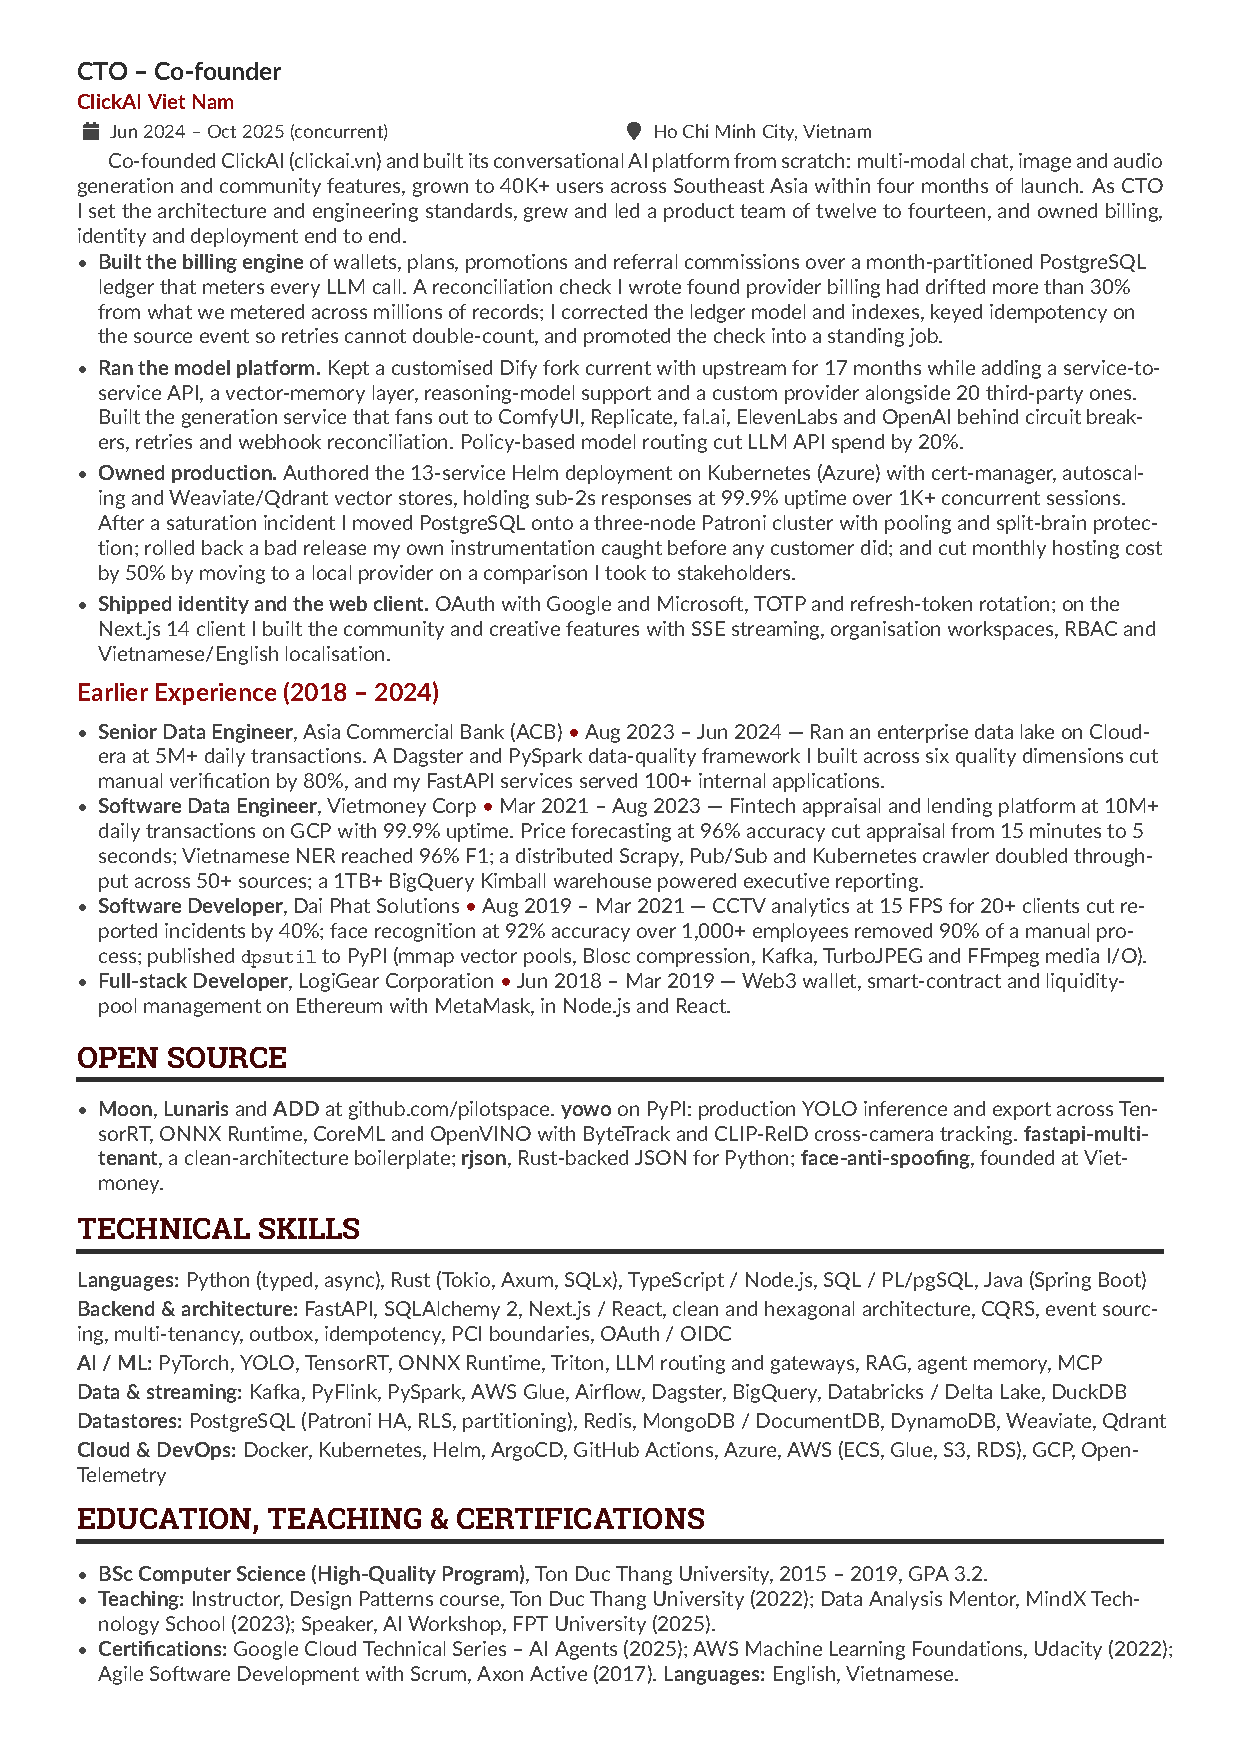
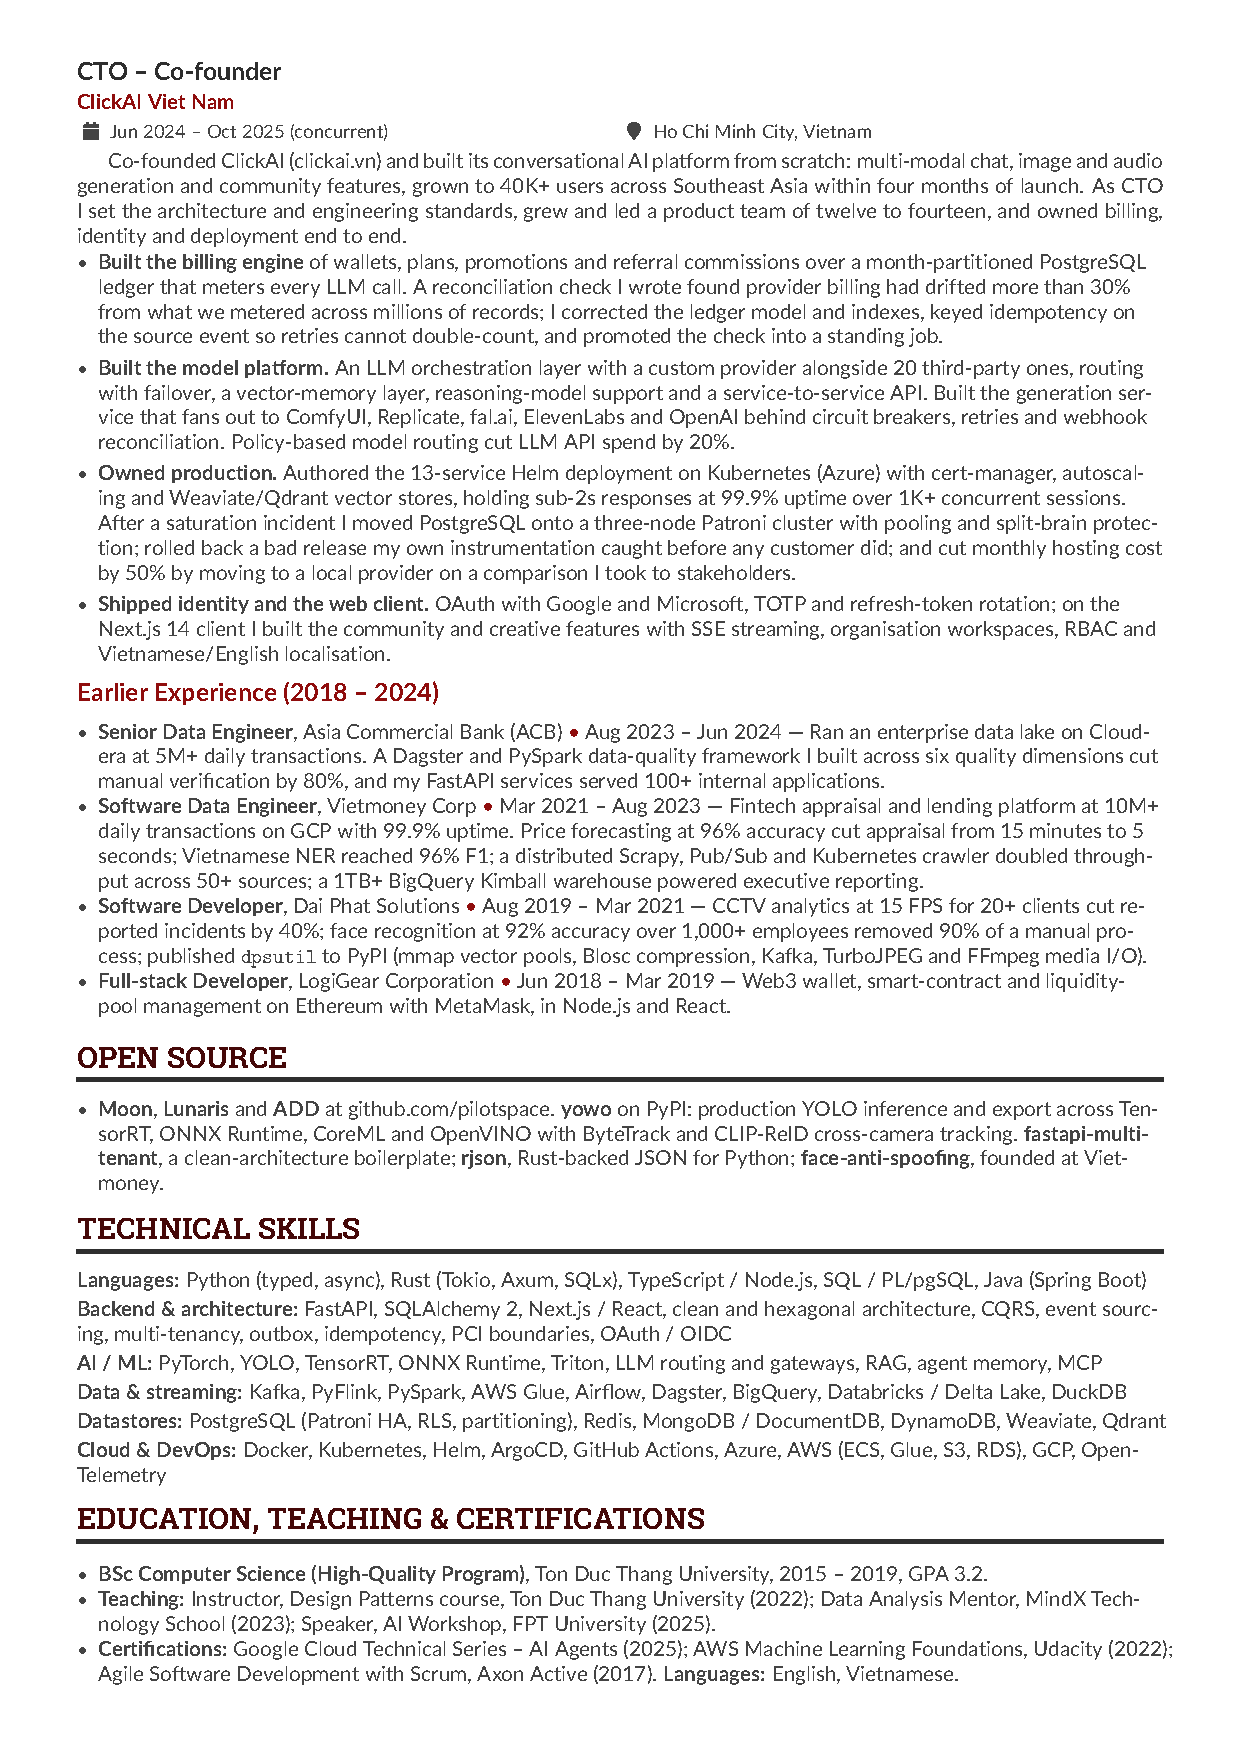
docs(cv): describe the ClickAI model platform without naming its base
Reworded the model-platform bullet to describe what was built: an LLM
orchestration layer with a custom provider alongside 20 third-party
ones, routing with failover, vector memory, reasoning-model support and
a service-to-service API. Still two pages.

author: Tin Dang

Changed region(s): [[0.0919, 0.1847, 0.9194, 0.2771]]

diff --git a/main.tex b/main.tex
@@ -111,7 +111,7 @@ Co-founded ClickAI (\href{https://clickai.vn}{clickai.vn}) and built its convers
 
 \begin{itemize}
   \item \textbf{Built the billing engine} of wallets, plans, promotions and referral commissions over a month-partitioned PostgreSQL ledger that meters every LLM call. A reconciliation check I wrote found provider billing had drifted more than 30\% from what we metered across millions of records; I corrected the ledger model and indexes, keyed idempotency on the source event so retries cannot double-count, and promoted the check into a standing job.
-  \item \textbf{Ran the model platform.} Kept a customised Dify fork current with upstream for 17 months while adding a service-to-service API, a vector-memory layer, reasoning-model support and a custom provider alongside 20 third-party ones. Built the generation service that fans out to ComfyUI, Replicate, fal.ai, ElevenLabs and OpenAI behind circuit breakers, retries and webhook reconciliation. Policy-based model routing cut LLM API spend by 20\%.
+  \item \textbf{Built the model platform.} An LLM orchestration layer with a custom provider alongside 20 third-party ones, routing with failover, a vector-memory layer, reasoning-model support and a service-to-service API. Built the generation service that fans out to ComfyUI, Replicate, fal.ai, ElevenLabs and OpenAI behind circuit breakers, retries and webhook reconciliation. Policy-based model routing cut LLM API spend by 20\%.
   \item \textbf{Owned production.} Authored the 13-service Helm deployment on Kubernetes (Azure) with cert-manager, autoscaling and Weaviate/Qdrant vector stores, holding sub-2s responses at 99.9\% uptime over 1K+ concurrent sessions. After a saturation incident I moved PostgreSQL onto a three-node Patroni cluster with pooling and split-brain protection; rolled back a bad release my own instrumentation caught before any customer did; and cut monthly hosting cost by 50\% by moving to a local provider on a comparison I took to stakeholders.
   \item \textbf{Shipped identity and the web client.} OAuth with Google and Microsoft, TOTP and refresh-token rotation; on the Next.js 14 client I built the community and creative features with SSE streaming, organisation workspaces, RBAC and Vietnamese/English localisation.
 \end{itemize}
